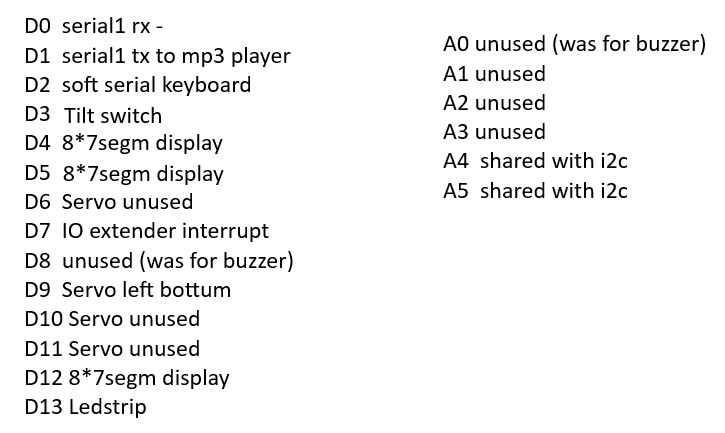
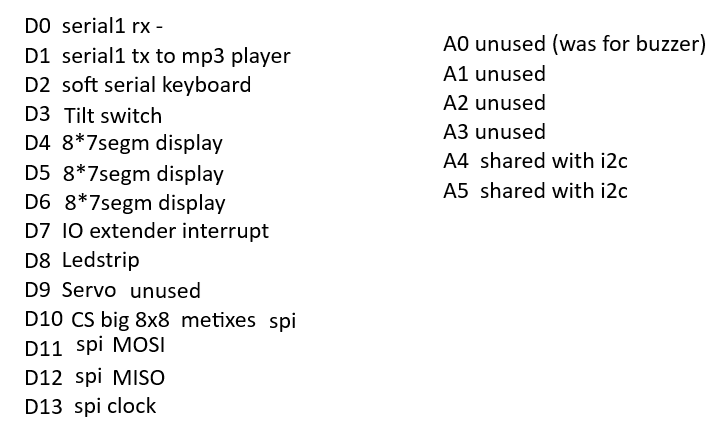
Added 24 8x8 matrix to pinnball

diff --git a/pinnball/display8x8matrixes.h b/pinnball/display8x8matrixes.h
@@ -1,4 +1,4 @@
-#include "simple_matrix.h" //Import the library
+#include "simple_matrix.h"
 
 /*
 Initialize the library. The 4 means that the CS pin is connected to pin D4.
@@ -16,12 +16,12 @@ Store the text to be displayed in memory
 The PROGMEM means that the text will be stored in the Arduino's
 flash memory instead of RAM. This means that you can a lot more stuff (~27000 characters available on the Uno)
 */
-const char text[] PROGMEM = "Jo 1234 Ma 1234 Ja 1234 Sj 1234";
+const char tilt_text[] PROGMEM = "    TILT    TILTTILT    TILT";
 //Defines "textDelay" as 25ms (Delay between when the display scroll by 1 pixel to the left).
 #define textDelay 25
 
 //This code will run only once when the Arduino is turned on.
-void setup(){
+void setup_8x8matrix(){
   //Starts the library
   disp.begin();
   /*
@@ -34,12 +34,12 @@ void setup(){
 }
 
 //After void setup(), this code will run and loop forever.
-void loop(){
-  //Scroll the text "text". The "textDelay" determines how long each
-  //    frame is in mS.
-  // disp.scrollTextPROGMEMRightToLeft(text, textDelay);
-  disp.print(text);
+// void loop(){
+//   //Scroll the text "text". The "textDelay" determines how long each
+//   //    frame is in mS.
+//   // disp.scrollTextPROGMEMRightToLeft(text, textDelay);
+//   disp.print(text);
 
-  //After scolling, delay by 1 second.
-  delay(1000);
-}
+//   //After scolling, delay by 1 second.
+//   delay(1000);
+// }

diff --git a/pinnball/my_servo.h b/pinnball/my_servo.h
@@ -1,15 +1,16 @@
-Servo myservo;
+Adafruit_PWMServoDriver pwm = Adafruit_PWMServoDriver();
+
+#define SERVO_FREQ 50 // Analog servos run at ~50 Hz updates
 
 void setup_servo()
 {
-  
+  pwm.begin();
+  pwm.setOscillatorFrequency(27000000);
+  pwm.setPWMFreq(SERVO_FREQ);  // Analog servos run at ~50 Hz updates
 }
 
-void do_servo(int pin, int position)
+void do_servo(int pin, int position) //pin number on pwm extender
 {
-  myservo.attach(pin);
-  myservo.write(position);
-  delay(100);
-  myservo.detach();
-
+  pwm.setPWM(pin, 0, (position*2)+90);  // pwm start is 90 pwm end is 
+  delay(10);
 }

diff --git a/pinnball/my_display.h b/pinnball/my_display.h
@@ -21,7 +21,7 @@ void display_setup(){
   // lcd.backlight(); // turn on the backlight led
 
   // if no backlight control is given, you can also use:
-  lcd.begin(5, 12, 4); // (cs, wr, Data)
+  lcd.begin(5, 6, 4); // (cs, wr, Data)
   lcd.clear(); // clear the screen
 }
 

diff --git a/pinnball/my_led_strip.h b/pinnball/my_led_strip.h
@@ -14,7 +14,7 @@
 #endif
 
 
-#define LED_PIN     13
+#define LED_PIN     8
 #define NUM_LEDS    120
 #define BRIGHTNESS  25
 #define LED_TYPE    WS2812B
